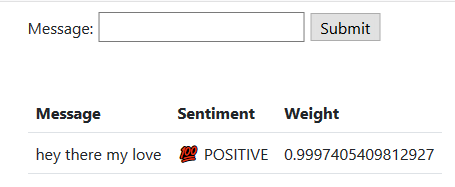
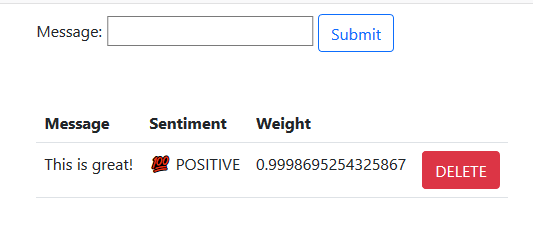
Integrated deletion

diff --git a/webfront/static/form.html b/webfront/static/form.html
@@ -31,22 +31,26 @@
 			    <th>Message</th>
 			    <th>Sentiment</th>
 			    <th>Weight</th>
+			    <th></th>
 			  </tr>
-			  {{range .}}
+			  {{ range $index, $element := .Sentiments }}
 			    <tr>
-			 	  <td>{{.Message}}</td>
-			 	  <td>{{if eq .Score "POSITIVE"}}
+			 	  <td>{{$element.Message}}</td>
+			 	  <td>{{if eq $element.Score "POSITIVE"}}
 			 	  		<span>&#128175;</span>
-			 	  		{{.Score}}
-			 	  	  {{else if eq .Score "NEGATIVE"}}
+			 	  	  {{else if eq $element.Score "NEGATIVE"}}
 			 	  	  	<span>&#128577;</span>
-			 	  	  	{{.Score}}
 			 	  	  {{else}}
 			 	  	  	<span>&#128566;</span>
-			 	  	  	{{.Score}}
 			 	  	  {{end}}
+			 	  	  {{$element.Score}}
 			 	  </td>
-			 	  <td>{{.Weight}}</td>
+			 	  <td>{{$element.Weight}}</td>
+			 	  <td>
+			 	  	<form method="POST" action="/delete">
+			 	  		<button name="delete" type="submit" value="{{ $index }}" class="btn btn-danger">DELETE</button>
+				  </form>
+			 	  </td>
 			 	</tr>
 			  {{end}}
 			</table>

diff --git a/webfront/server.go b/webfront/server.go
@@ -4,6 +4,7 @@ package main
 import (
     "fmt"
     "log"
+    "strconv"
     "io/ioutil"
     "bytes"
     "net/http"
@@ -18,14 +19,12 @@ type Sentiment struct {
 }
 
 type SentimentPageStruct struct {
-    sentiments []Sentiment
+    Sentiments []Sentiment
 }
 
-var responses []Sentiment
+var responses SentimentPageStruct
 
 func formHandler(w http.ResponseWriter, r *http.Request) {
-    
-
     if err := r.ParseForm(); err != nil {
         fmt.Fprintf(w, "ParseForm() err: %v", err)
         return
@@ -37,48 +36,69 @@ func formHandler(w http.ResponseWriter, r *http.Request) {
         tmpl := template.Must(template.ParseFiles("static/form.html"))
 
         tmpl.Execute(w, responses)
-    }else {
-        values := map[string]string{"text": message}
-        jsonValue, _ := json.Marshal(values)
-        req, err := http.Post(url, "application/json", bytes.NewBuffer(jsonValue))
+        return
+    }
 
-        if err != nil {
-            log.Fatal( err )
-        }
+    values := map[string]string{"text": message}
+    jsonValue, _ := json.Marshal(values)
+    req, err := http.Post(url, "application/json", bytes.NewBuffer(jsonValue))
 
-        defer req.Body.Close()
+    if err != nil {
+        log.Fatal( err )
+    }
 
-        body, _ := ioutil.ReadAll(req.Body)
+    defer req.Body.Close()
 
-        var data []map[string]interface{}
+    body, _ := ioutil.ReadAll(req.Body)
 
-        err = json.Unmarshal(body, &data)
-        if err != nil {
-            log.Fatal( err )
-        }
+    var data []map[string]interface{}
 
-        if len(responses) > 20 {
-            responses = []Sentiment{Sentiment{Message: message, Score: data[0]["label"].(string), Weight: data[0]["score"].(float64)}}
-        }else{
-            responses = append(responses, Sentiment{Message: message, Score: data[0]["label"].(string), Weight: data[0]["score"].(float64)})
-        }
+    err = json.Unmarshal(body, &data)
+    if err != nil {
+        log.Fatal( err )
+    }
+    
+    responses.Sentiments = append(responses.Sentiments, Sentiment{Message: message, Score: data[0]["label"].(string), Weight: data[0]["score"].(float64)})
+    
+    if len(responses.Sentiments) > 5 {
+        responses.Sentiments = responses.Sentiments[1:]
+    }
 
-        if err := r.ParseForm(); err != nil {
-            fmt.Fprintf(w, "ParseForm() err: %v", err)
-            return
-        }
+    if err := r.ParseForm(); err != nil {
+        fmt.Fprintf(w, "ParseForm() err: %v", err)
+        return
+    }
 
+    tmpl := template.Must(template.ParseFiles("static/form.html"))
+
+    tmpl.Execute(w, responses)
+}
+
+func deletionHandler(w http.ResponseWriter, r *http.Request) {
+    r.ParseForm()
+
+    i, err := strconv.Atoi(r.Form["delete"][0])
+    if err != nil {
+        log.Fatal( err )
+    }
+
+    if (i > len(responses.Sentiments)) || (i < 0){
         tmpl := template.Must(template.ParseFiles("static/form.html"))
 
         tmpl.Execute(w, responses)
+        return
     }
+
+    responses.Sentiments = append(responses.Sentiments[:i], responses.Sentiments[i+1:]...)
+
+    tmpl := template.Must(template.ParseFiles("static/form.html"))
+
+    tmpl.Execute(w, responses)
 }
 
 func main() {
-    // fileServer := http.FileServer(http.Dir("./static"))
-    // http.Handle("/", fileServer)
     http.HandleFunc("/", formHandler)
-
+    http.HandleFunc("/delete", deletionHandler)
     fmt.Printf("Starting server at port 8080\n")
     log.Fatal(http.ListenAndServe(":8080", nil))
 }
